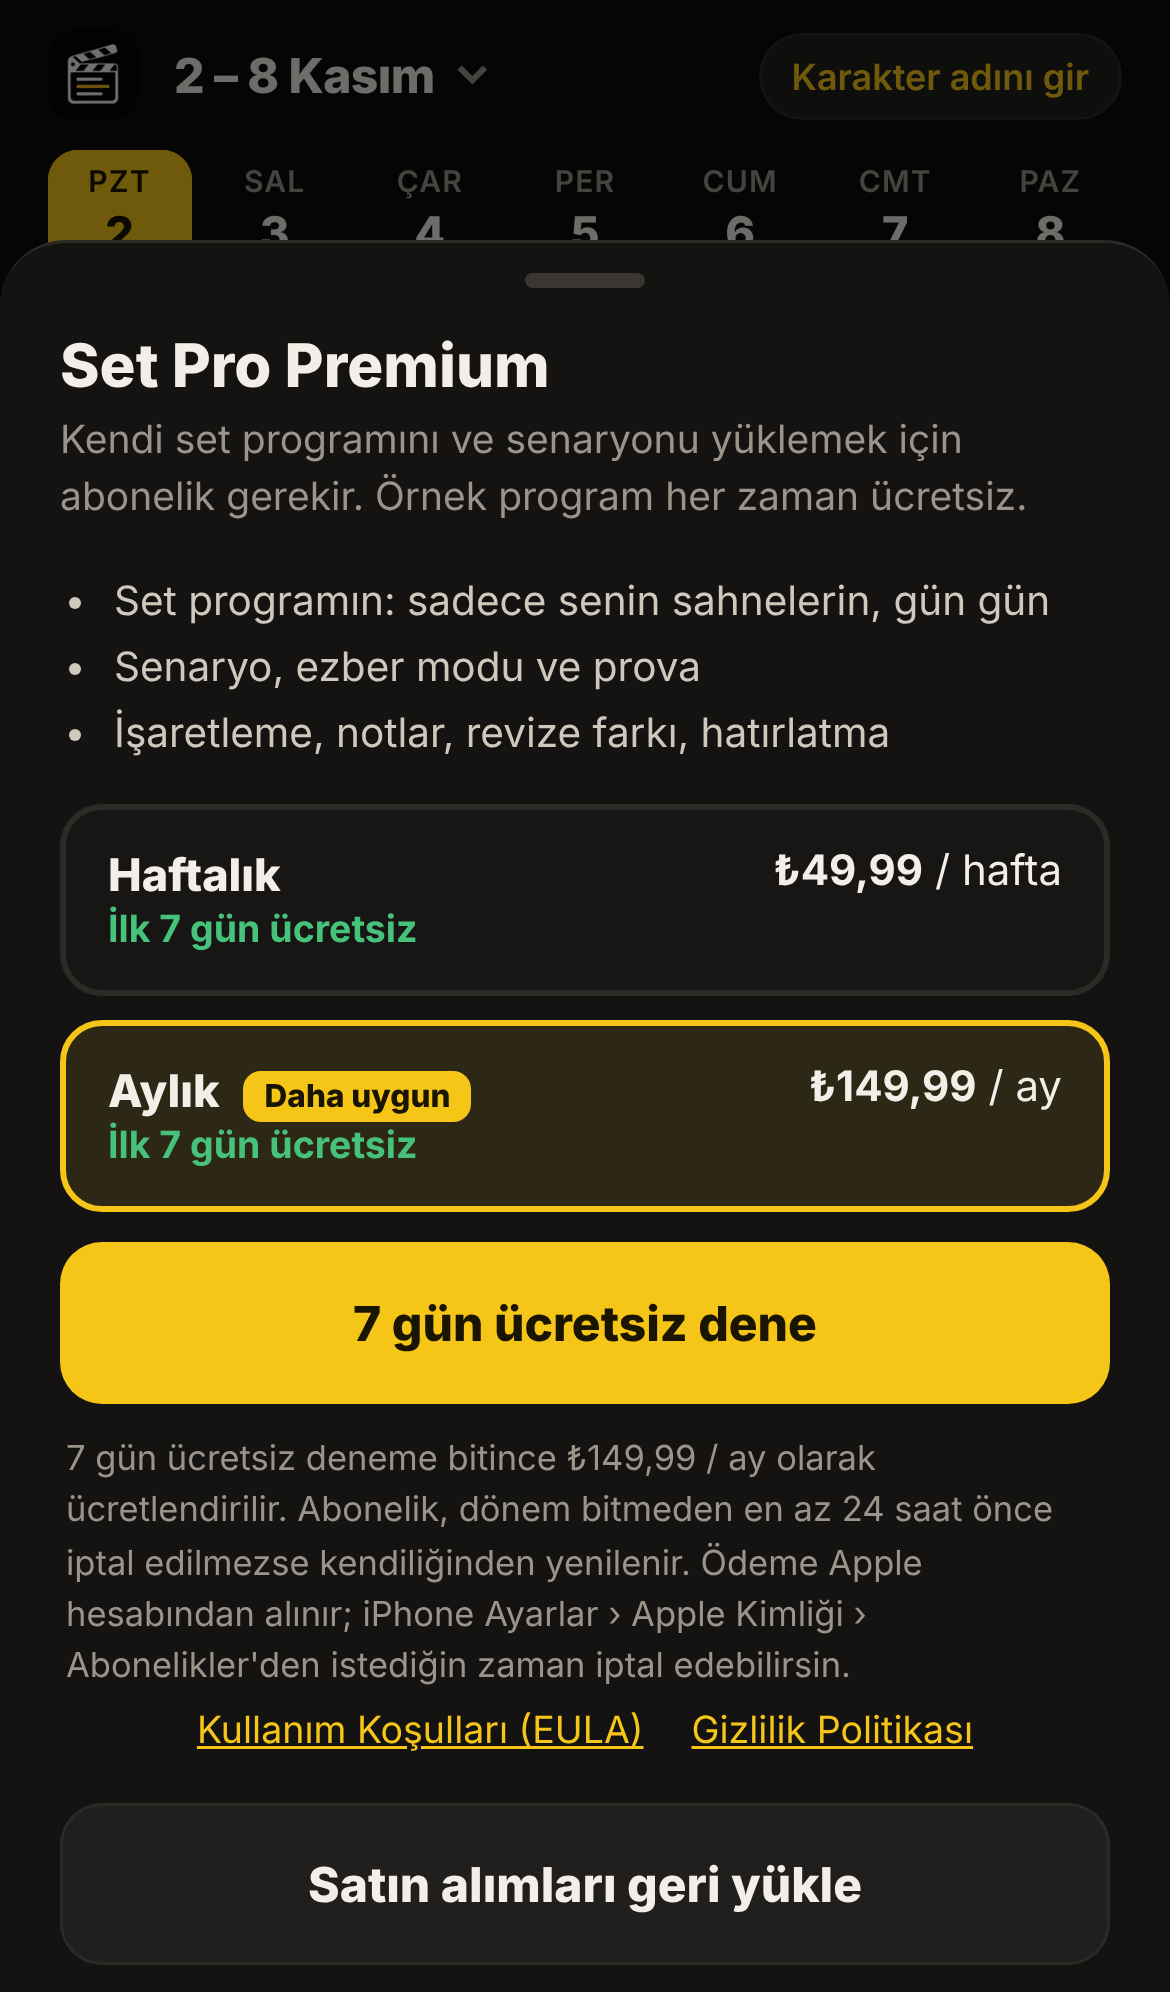
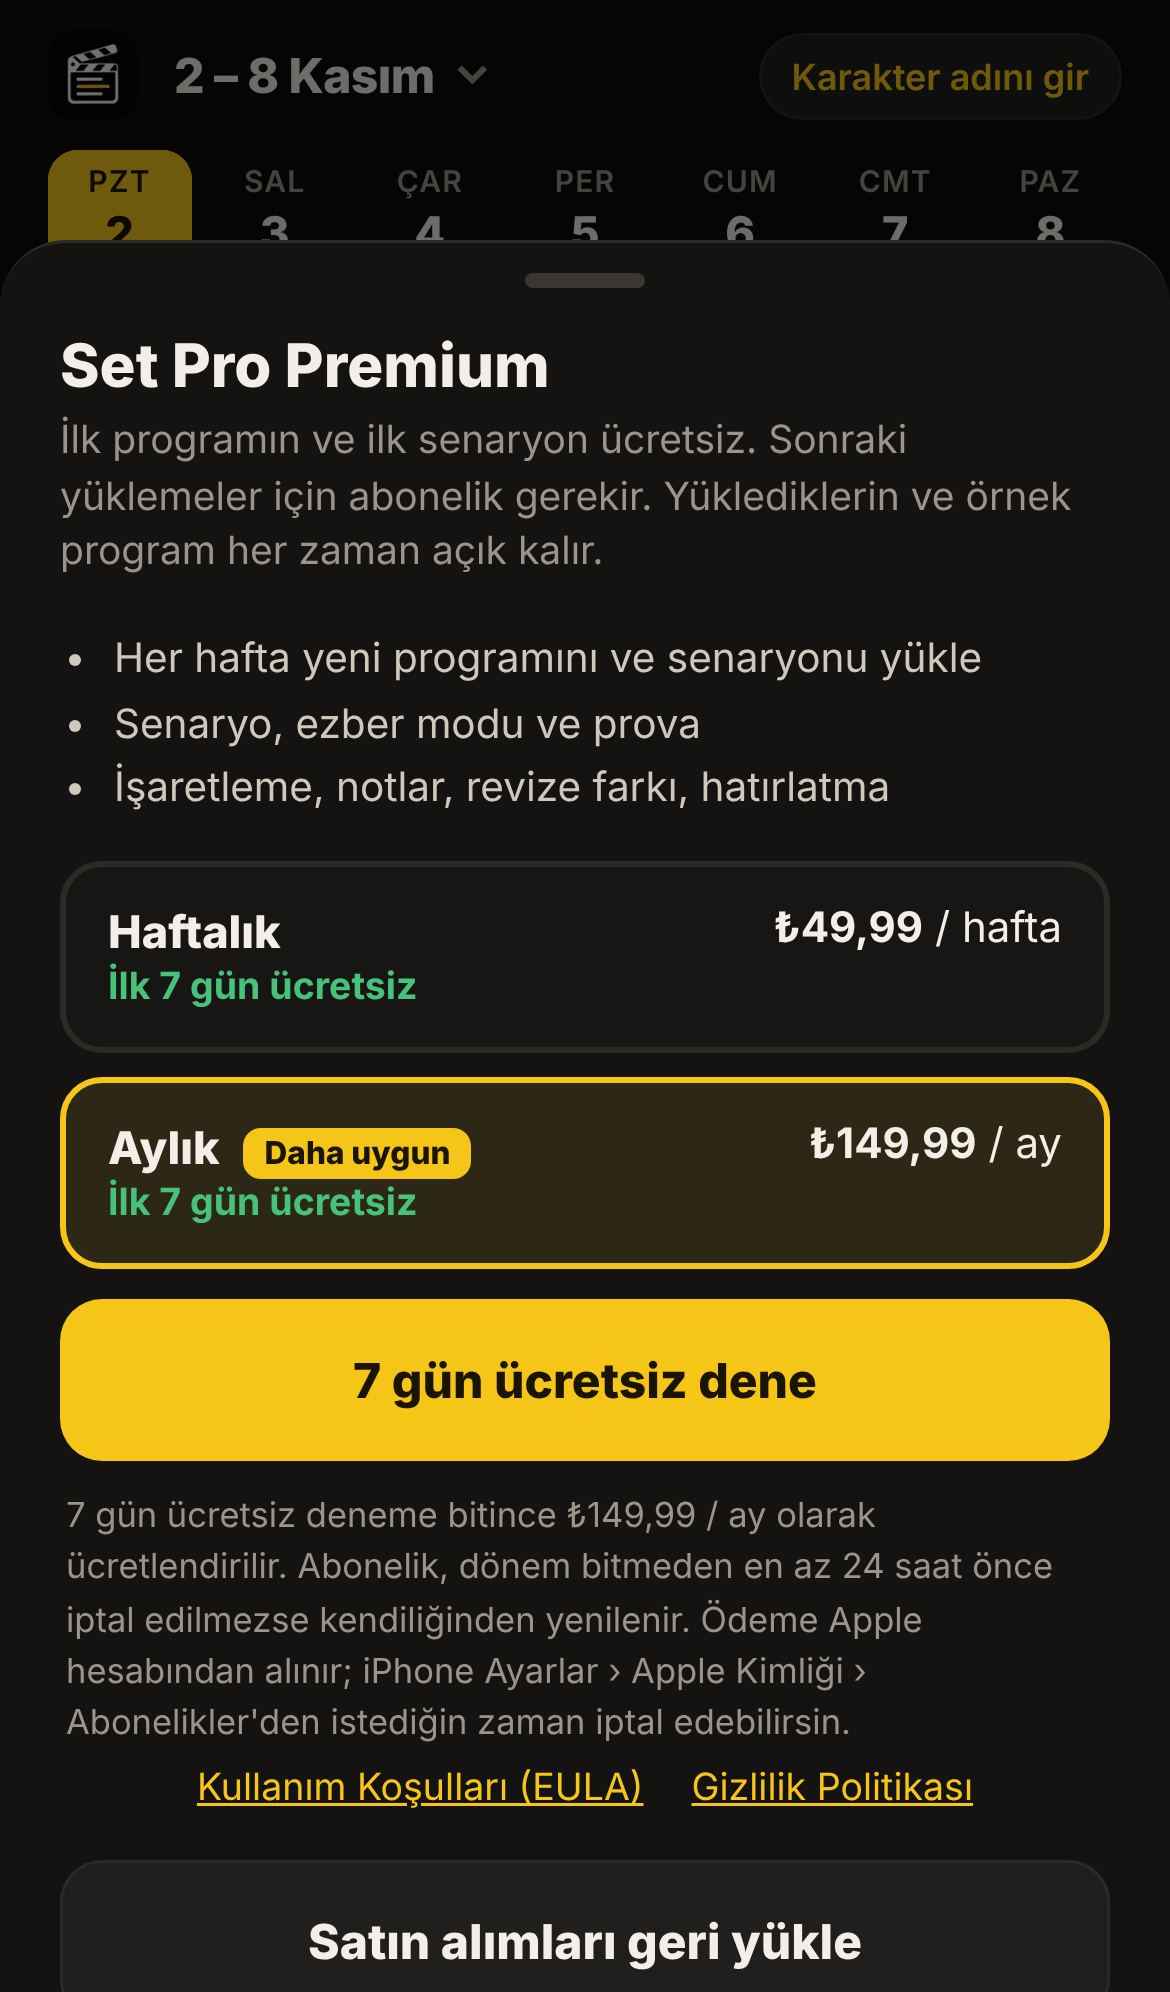
Uygulama ücretsiz: ilk program ve ilk senaryo bedava, sonrası abonelik; muafiyet satın alma tarihine göre (v2026.11.27-2)
Claude-Session: https://claude.ai/code/session_01ToyLQdeUqVfc3p2y4AdA3a

Changed region(s): [[0.0308, 0.2179, 0.9538, 0.9026], [0.2462, 0.9337, 0.7385, 0.996]]

diff --git a/index.html b/index.html
@@ -437,6 +437,7 @@ textarea.ink-in{position:absolute;z-index:3;width:150px;min-height:30px;box-sizi
 .sub-links{display:flex;gap:16px;justify-content:center;margin:4px 0 6px}
 .sub-links a{font-size:12.5px;color:var(--accent-t);-webkit-touch-callout:default}
 #subBody .btn{margin-top:10px}
+.freenote{font-size:12.5px;color:var(--accent-t);margin:10px 2px 0;font-weight:600}
 </style>
 </head>
 <body>
@@ -493,6 +494,7 @@ textarea.ink-in{position:absolute;z-index:3;width:150px;min-height:30px;box-sizi
   <input type="date" id="fallbackDate">
   <label class="check"><input type="checkbox" id="replaceChk" checked> Aynı günün eski programını yenisiyle değiştir</label>
   <button class="btn" id="btnParse" disabled>Programı Oku</button>
+  <p class="freenote" id="freeNote" hidden></p>
   <div class="status" id="status"><div class="spin"></div><div id="statusTxt">Okunuyor…</div></div>
 </div>
 
@@ -1750,11 +1752,11 @@ function openUpload(){
   pickerMode();
   $("#charIn").value=S.character;
   if(!$("#fallbackDate").value) $("#fallbackDate").value=S.selected||iso(new Date());
-  setStatus(false); renderFiles();
+  setStatus(false); renderFiles(); Sub.note();
   openSheet($("#upSheet"));
 }
-// uploading your own program or script needs the subscription in the iPhone app (the sample stays free)
-$("#fab").onclick=async()=>{ if(await Sub.check()) openUpload(); else Sub.show(); };
+// (the subscription check happens when the files are read: see Sub.gate)
+$("#fab").onclick=()=>openUpload();
 $("#fileIn").addEventListener("change",e=>{ S.files.push(...e.target.files); e.target.value=""; renderFiles(); });
 function renderFiles(){
   $("#fileList").innerHTML=S.files.map((f,i)=>`<div class="file"><span>${f.type==="application/pdf"?"📄":"🖼"} ${esc(f.name)}</span><button data-rm="${i}">✕</button></div>`).join("");
@@ -2009,8 +2011,7 @@ $("#btnParse").onclick=async()=>{
       if(!total){
         const sc=window.ScriptParser.parse(pages,{fileName:f.name});
         if(sc.scenes.length>=3 && sc.episode){
-          await Scripts.put({episode:sc.episode, aliases:sc.aliases||[], name:f.name, scenes:sc.scenes, added:new Date().toISOString()});
-          newScripts.push(sc); continue;
+          sc.name=f.name; newScripts.push(sc); continue;
         }
         unreadPdfs.push(f);
         const words=pages.reduce((a,pg)=>a+pg.items.length,0);
@@ -2079,6 +2080,11 @@ $("#btnParse").onclick=async()=>{
       const shift=Math.round((mondayOf(new Date()).getTime()-mondayOf(parseIso(first)).getTime())/864e5);
       all.forEach(o=>{ const d=parseIso(o.date); d.setDate(d.getDate()+shift); o.date=iso(d); o.sourceName="Örnek program"; });
     }
+    // first program and first script are free in the iPhone app; after that the subscription is needed
+    const gate=S.demo ? null : await Sub.gate(all.length>0, newScripts.length>0);
+    if(gate){ S.busy=false; renderFiles(); setStatus(false); Sub.show(gate); return; }
+    for(const sc of newScripts) await Scripts.put({episode:sc.episode, aliases:sc.aliases||[], name:sc.name, scenes:sc.scenes, added:new Date().toISOString()});
+    if(!S.demo) Sub.used(all.length>0, newScripts.length>0);
     if(!all.length && newScripts.length && !unreadPdfs.length && !imgs.length){
       S.busy=false; S.files=[]; renderFiles(); closeSheet(); render();
       toast(newScripts.map(x=>`${epName(x.episode)} senaryosu eklendi · ${x.scenes.length} sahne`).join(" · "),3600);
@@ -2147,7 +2153,7 @@ $("#btnParse").onclick=async()=>{
 })();
 
 /* ---------- auto update (GitHub Pages) ---------- */
-const APP_VERSION="2026.11.27-1";
+const APP_VERSION="2026.11.27-2";
 async function checkUpdate(){
   if(!/github\.io$/.test(location.hostname)) return;
   try{
@@ -2199,6 +2205,8 @@ pickerMode();
    People who bought the paid 1.0 keep everything without subscribing. */
 const SUB_IDS=["com.burakyoruk.setprogramim.haftalik","com.burakyoruk.setprogramim.aylik"];
 const SUB_FIRST_BUILD=134;
+// the app was a paid download until this moment; whoever got it before keeps everything
+const PAID_UNTIL="2026-11-28T00:00:00+03:00";
 const EULA_URL="https://www.apple.com/legal/internet-services/itunes/dev/stdeula/";
 const PRIVACY_URL="https://burakyai.github.io/SET-PROGRAMIM/gizlilik.html";
 const Sub={ products:null, busy:false, fresh:false,
@@ -2213,7 +2221,7 @@ const Sub={ products:null, busy:false, fresh:false,
   async refresh(){ if(!this.native()) return;
     if(!this.c.legacy && !this.c.legacyChecked){
       try{ const r=await this.call("getAppTransaction"); const at=r&&r.appTransaction;
-        if(at){ this.c.legacy = at.environment==="Production" && parseInt(at.originalAppVersion,10)<SUB_FIRST_BUILD; this.c.legacyChecked=true; } }catch(e){ console.warn("abonelik: uygulama kaydı okunamadı",e); } }
+        if(at){ this.c.legacy = at.environment==="Production" && parseInt(at.originalAppVersion,10)<SUB_FIRST_BUILD && new Date(at.originalPurchaseDate).getTime()<new Date(PAID_UNTIL).getTime(); this.c.legacyChecked=true; } }catch(e){ console.warn("abonelik: uygulama kaydı okunamadı",e); } }
     try{ const r=await this.call("getPurchases",{onlyCurrentEntitlements:true});
       let until=null, pid=null;
       ((r&&r.purchases)||[]).forEach(p=>{ if(!SUB_IDS.includes(p.productIdentifier) || p.revocationDate || p.isActive===false || !p.expirationDate) return;
@@ -2221,6 +2229,16 @@ const Sub={ products:null, busy:false, fresh:false,
       this.c.until=until; this.c.pid=pid; this.fresh=true;
     }catch(e){ console.warn("abonelik: satın alımlar okunamadı",e); }
     this.save(); this.ui(); },
+  free(){ try{ return JSON.parse(localStorage.getItem("setprog.free")||"{}")||{}; }catch(e){ return {}; } },
+  used(prog,script){ if(!this.native()) return; const f=this.free(); if(prog) f.prog=true; if(script) f.script=true; try{ localStorage.setItem("setprog.free",JSON.stringify(f)); }catch(e){} },
+  // returns what is blocked ("prog" | "script" | "both") or null when the upload may go ahead
+  async gate(prog,script){ if(!this.native() || (!prog && !script)) return null; const f=this.free();
+    const needP=prog && f.prog, needS=script && f.script; if(!needP && !needS) return null;
+    if(await this.check()) return null; return needP&&needS?"both":needP?"prog":"script"; },
+  note(){ const n=$("#freeNote"); if(!n) return; if(!this.native() || this.entitled()){ n.hidden=true; return; } const f=this.free();
+    n.hidden=false; n.textContent = !f.prog&&!f.script ? "İlk programın ve ilk senaryon ücretsiz."
+      : f.prog&&f.script ? "Ücretsiz program ve senaryo hakkını kullandın. Yenisini yüklemek için abonelik gerekir."
+      : f.prog ? "Ücretsiz program hakkını kullandın; ilk senaryon hâlâ ücretsiz." : "Ücretsiz senaryo hakkını kullandın; ilk programın hâlâ ücretsiz."; },
   async check(){ if(this.entitled()) return true; if(!this.native()) return true;
     await Promise.race([this.refresh(), new Promise(r=>setTimeout(r,6000))]); return this.entitled(); },
   async load(){ if(this.products) return this.products;
@@ -2232,10 +2250,14 @@ const Sub={ products:null, busy:false, fresh:false,
   trial(p){ const ip=p.introductoryPrice; if(!ip || p.introEligibility===1 || (ip.price||0)>0) return "";
     const n=(ip.period&&ip.period.numberOfUnits)||0, u=ip.period?ip.period.unit:0; const days=u===1?n*7:u===0?n:0;
     return days?`${days} gün`:(n?`${n} ${u===2?"ay":"yıl"}`:""); },
-  async show(){ const body=$("#subBody"); this.pick=this.pick||SUB_IDS[1];
+  async show(why){ const body=$("#subBody"); this.pick=this.pick||SUB_IDS[1];
+    const lead= why==="prog" ? "İlk programın ücretsizdi. Yeni program yüklemek için abonelik gerekir."
+      : why==="script" ? "İlk senaryon ücretsizdi. Yeni senaryo yüklemek için abonelik gerekir."
+      : why==="both" ? "Ücretsiz program ve senaryo hakkını kullandın. Yenilerini yüklemek için abonelik gerekir."
+      : "İlk programın ve ilk senaryon ücretsiz. Sonraki yüklemeler için abonelik gerekir.";
     body.innerHTML=`<h2>Set Pro Premium</h2>
-      <p class="hint">Kendi set programını ve senaryonu yüklemek için abonelik gerekir. Örnek program her zaman ücretsiz.</p>
-      <ul class="sub-f"><li>Set programın: sadece senin sahnelerin, gün gün</li><li>Senaryo, ezber modu ve prova</li><li>İşaretleme, notlar, revize farkı, hatırlatma</li></ul>
+      <p class="hint">${lead} Yüklediklerin ve örnek program her zaman açık kalır.</p>
+      <ul class="sub-f"><li>Her hafta yeni programını ve senaryonu yükle</li><li>Senaryo, ezber modu ve prova</li><li>İşaretleme, notlar, revize farkı, hatırlatma</li></ul>
       <div id="subPlans"><p class="hint">Planlar yükleniyor…</p></div>
       <button class="btn" id="subBuy" disabled>Devam</button>
       <p class="sub-legal" id="subLegal"></p>
@@ -2256,7 +2278,7 @@ const Sub={ products:null, busy:false, fresh:false,
   async buy(p){ if(this.busy) return; this.busy=true; const buy=$("#subBuy"); if(buy){ buy.disabled=true; buy.textContent="Apple'a bağlanılıyor…"; }
     try{ await this.call("purchaseProduct",{productIdentifier:p.identifier,productType:"subs",quantity:1});
       this.fresh=false; await this.refresh();
-      if(this.entitled()){ closeSheet(); toast("Aboneliğin başladı 🎬",3200); setTimeout(openUpload,400); }
+      if(this.entitled()){ closeSheet(); toast("Aboneliğin başladı 🎬",3200); setTimeout(()=>{ openUpload(); if(S.files.length && !S.busy) $("#btnParse").onclick(); },400); }
       else toast("Satın alma tamamlanamadı. Birazdan tekrar dene.",4000);
     }catch(e){ const m=String((e&&e.message)||e||""); if(!/cancel/i.test(m)) toast(/pending/i.test(m)?"Satın alma onay bekliyor":"Satın alma yapılamadı",4000); }
     this.busy=false; if($("#subPlans") && this.products && openSheetEl===$("#subSheet")) this.plans(); },
@@ -2267,7 +2289,7 @@ const Sub={ products:null, busy:false, fresh:false,
     const st=$("#subState"); const act=this.c.until && new Date(this.c.until)>new Date();
     st.textContent=this.c.legacy ? "Uygulamayı satın aldığın için tüm özellikler sende; abonelik gerekmez."
       : act ? `${this.c.pid===SUB_IDS[0]?"Haftalık":"Aylık"} abonelik etkin · ${new Date(this.c.until).toLocaleDateString("tr-TR",{day:"numeric",month:"long"})} tarihinde yenilenir ya da biter.`
-      : "Abonelik yok. Kendi programını yüklemek için abone olabilirsin.";
+      : "Abonelik yok. İlk programın ve ilk senaryon ücretsiz; sonrakiler için abone olabilirsin.";
     $("#subOpen").hidden=!!this.c.legacy||act; $("#subManage").hidden=!act; $("#subRestore").hidden=!!this.c.legacy; }
 };
 $("#subOpen").onclick=()=>Sub.show();

diff --git a/sw.js b/sw.js
@@ -1,7 +1,7 @@
 // Set Programım – internetsiz çalışma.
 // Uygulama dosyaları ve PDF okuyucu telefona kaydedilir. Sayfa önce internetten
 // istenir (güncellemeler gelsin), internet yoksa kayıtlı kopya açılır.
-const CACHE = "setprog-v2026.11.27-1";
+const CACHE = "setprog-v2026.11.27-2";
 const CORE = ["./", "index.html", "manifest.webmanifest", "apple-touch-icon.png", "icon-512.png",
   "lib/pdf.min.mjs", "lib/pdf.worker.min.mjs", "lib/pdf.worker.safe.mjs", "lib/streams-polyfill.js", "lib/ornek-program.pdf"];
 

diff --git a/appstore/1.1.md b/appstore/1.1.md
@@ -27,12 +27,12 @@
 **Her iki ürün için Review Information**
 - Screenshot: `appstore/abonelik-ekrani.png`
 - Review notes:
-  The subscription unlocks uploading the user's own set schedule and script PDFs. The built-in sample schedule ("Örnek programla dene") stays free. To see the paywall: launch the app and tap the yellow + button.
+  The first schedule upload and the first script upload are free. Every later upload of a schedule or script PDF needs the subscription. The built-in sample schedule ("Örnek programla dene") is always free. To see the paywall: Settings (top-left icon) › "Planları gör", or upload a second schedule PDF.
 
 Ürünler ID'leri kodda sabit; birebir aynı yazılmalı.
 
 ## 2) Fiyat (Pricing and Availability)
-- Uygulama fiyatı: ₺49,99 → **Ücretsiz (₺0,00)**. 1.1 yayına girerken geçerli olacak şekilde.
+- Uygulama fiyatı: ₺49,99 → **Ücretsiz (₺0,00)**, hemen. En geç 27 Kasım gece yarısına kadar yapılmalı: uygulama o saatten önce indirenleri "parayla almış" sayıp abonelikten muaf tutuyor.
 
 ## 3) Sürüm 1.1 sayfası
 
@@ -48,11 +48,11 @@ Büyük güncelleme:
 • Ekiplere göre gruplanmış sahne listesi
 • Kiminle kaç sahnen var, sezon özeti
 • Akşam hatırlatması ve günü paylaşma
-• Set Pro Premium: 7 gün ücretsiz deneme ile haftalık ya da aylık abonelik. Uygulamayı daha önce satın alanlar için her şey ücretsiz kalır.
+• Uygulama artık ücretsiz: ilk programın ve ilk senaryon bedava. Sonrası için Set Pro Premium: 7 gün ücretsiz deneme ile haftalık ya da aylık abonelik. Uygulamayı daha önce satın alanlar için her şey ücretsiz kalır.
 
 **Description — sonuna eklenecek**
 SET PRO PREMIUM
-Kendi set programını ve senaryonu yüklemek için abonelik gerekir; örnek program ücretsizdir. Haftalık ya da aylık plan, ilk 7 gün ücretsiz. Abonelik, dönem bitmeden en az 24 saat önce iptal edilmezse kendiliğinden yenilenir; Apple Kimliği ayarlarından istediğin zaman iptal edebilirsin.
+İlk set programın ve ilk senaryon ücretsiz; sonraki yüklemeler için abonelik gerekir. Örnek program her zaman ücretsizdir. Haftalık ya da aylık plan, ilk 7 gün ücretsiz. Abonelik, dönem bitmeden en az 24 saat önce iptal edilmezse kendiliğinden yenilenir; Apple Kimliği ayarlarından istediğin zaman iptal edebilirsin.
 Kullanım Koşulları (EULA): https://www.apple.com/legal/internet-services/itunes/dev/stdeula/
 Gizlilik Politikası: https://burakyai.github.io/SET-PROGRAMIM/gizlilik.html
 
@@ -60,9 +60,9 @@ Gizlilik Politikası: https://burakyai.github.io/SET-PROGRAMIM/gizlilik.html
 
 **App Review notes (Notes alanının başına)**
 VERSION 1.1: adds auto-renewable subscriptions (weekly and monthly, 1-week free trial) and new features.
-- Paywall: launch the app and tap the yellow + button. Terms of Use (EULA), Privacy Policy and Restore Purchases are on the paywall. Restore and Manage Subscription are also in Settings (top-left icon).
-- Without a subscription the built-in sample schedule ("Örnek programla dene") stays fully usable. Uploading your own schedule or script PDF requires the subscription; in the sandbox the 1-week free trial can be started from the paywall.
-- Users who bought the paid version 1.0 keep full access without subscribing (checked with AppTransaction.originalAppVersion).
+- The first schedule upload and the first script upload are free; later uploads need the subscription. Paywall: Settings (top-left icon) › "Planları gör", or upload a second schedule PDF. Terms of Use (EULA), Privacy Policy and Restore Purchases are on the paywall. Restore and Manage Subscription are also in Settings (top-left icon).
+- Without a subscription the built-in sample schedule ("Örnek programla dene") and everything already uploaded stay fully usable.
+- Users who bought the paid version 1.0 keep full access without subscribing (checked with AppTransaction: original build and purchase date).
 - Notifications are optional: Settings › "Akşam hatırlatması" schedules a local reminder the evening before a shooting day. No push server is used.
 - The app still collects no data.
 
